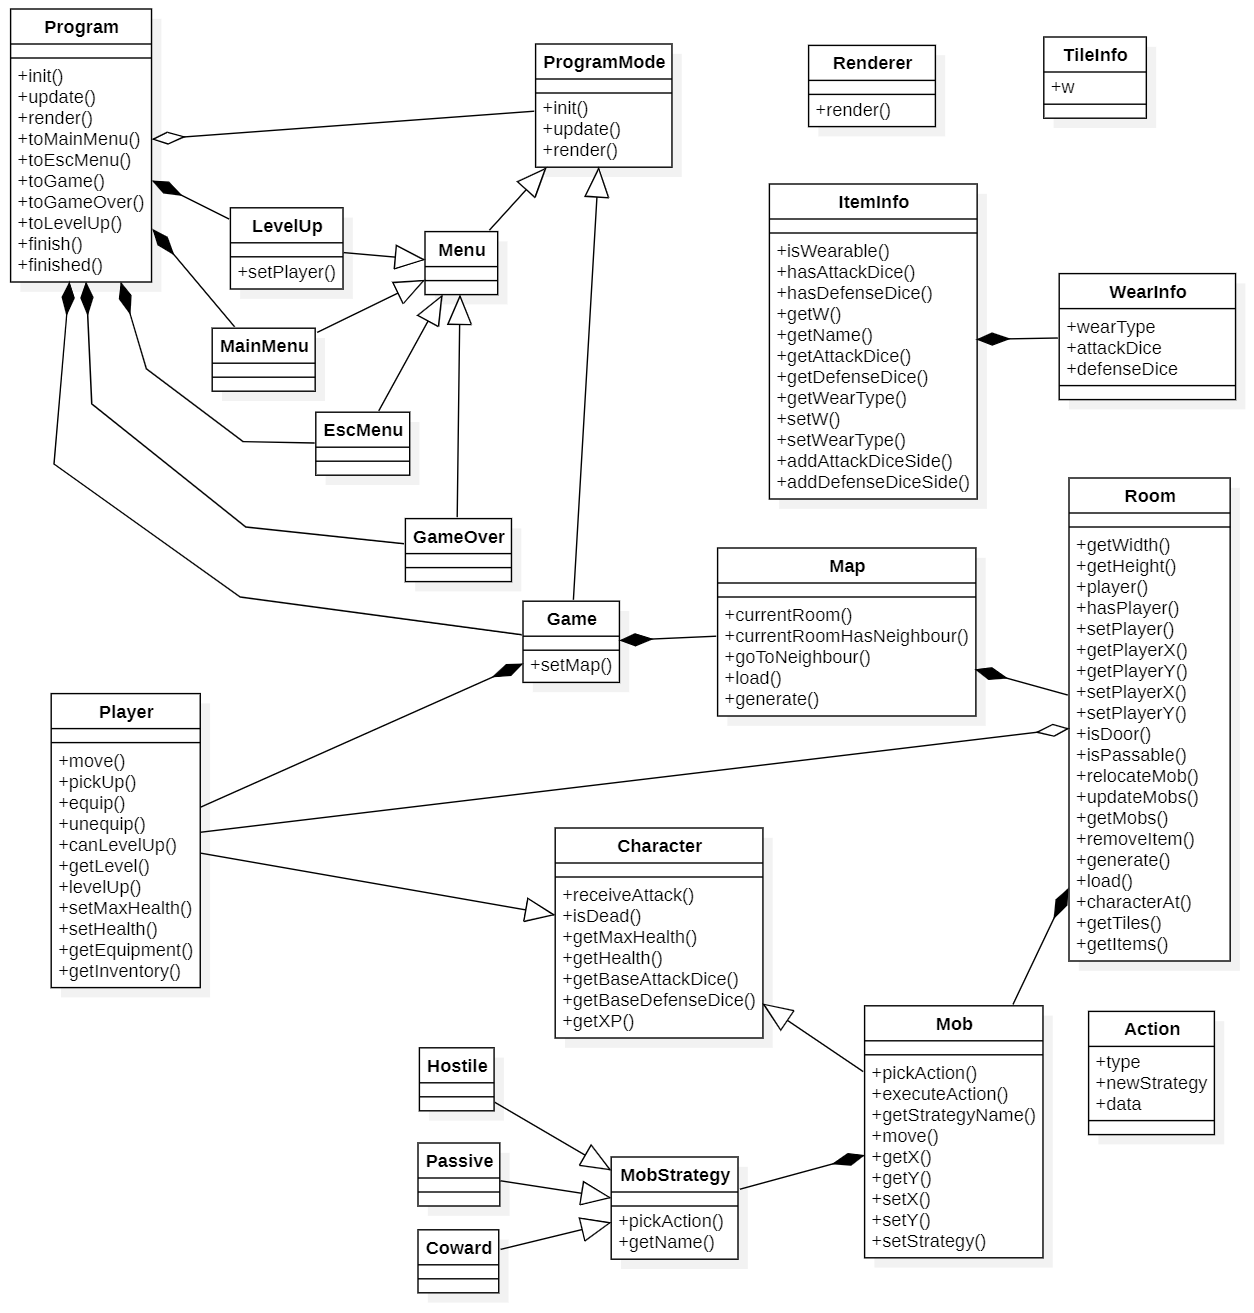
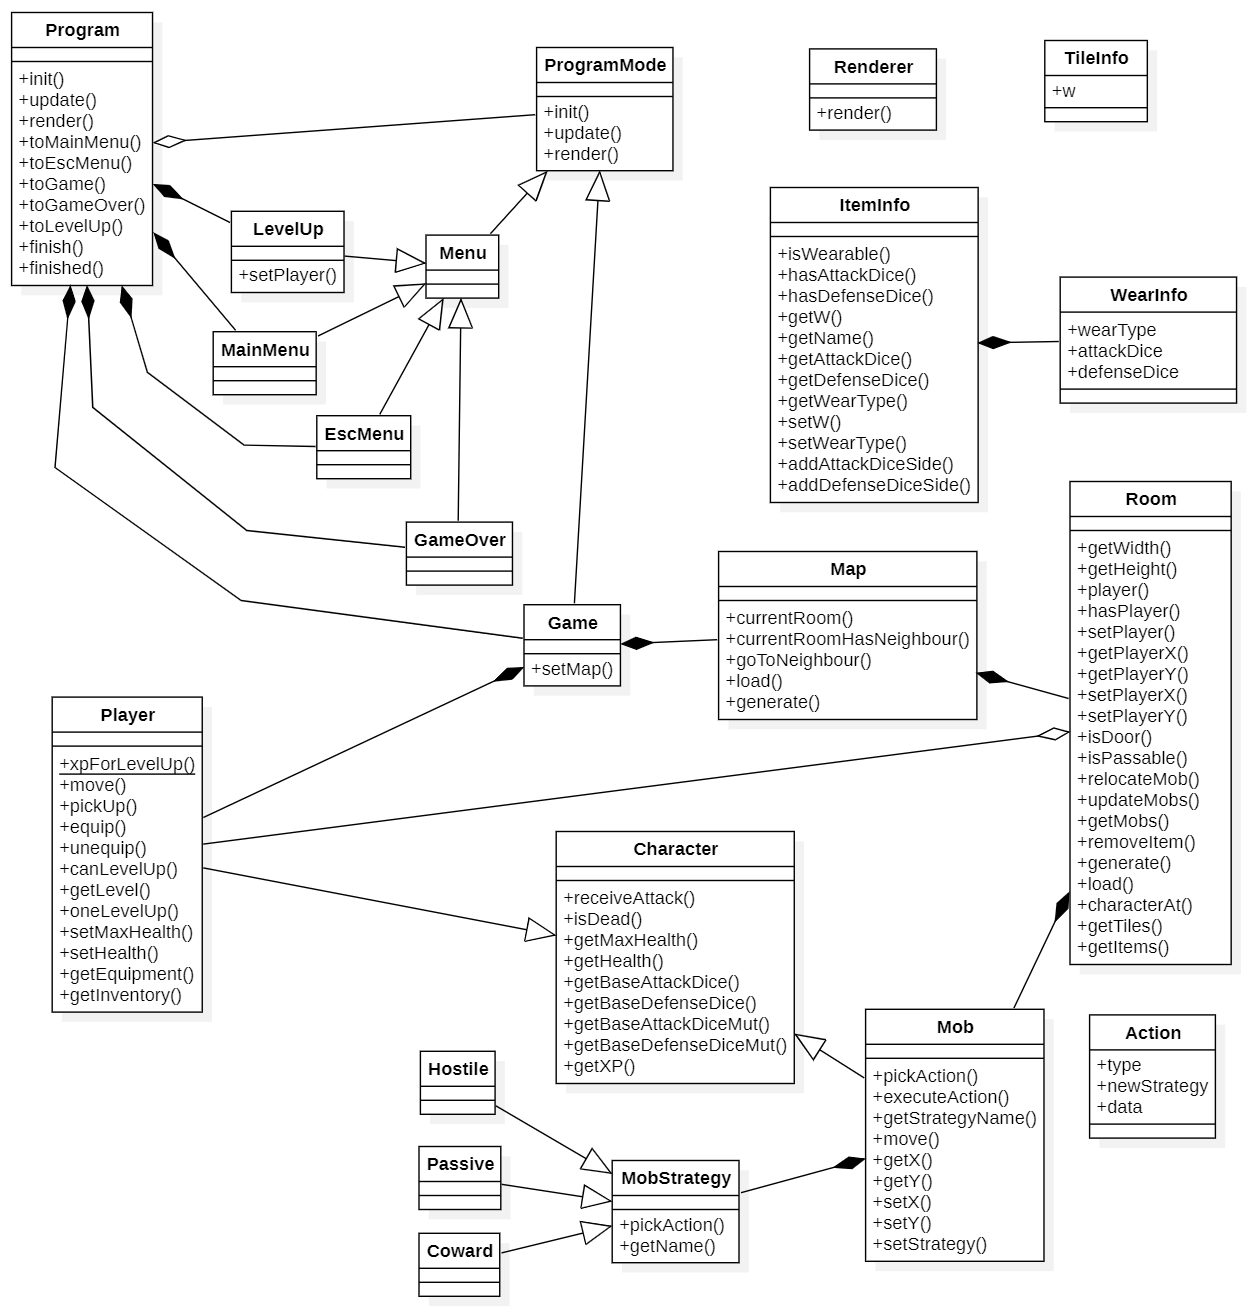
show xp and level in HUD

diff --git a/src/game/program_mode/level_up.cpp b/src/game/program_mode/level_up.cpp
@@ -1,9 +1,13 @@
 #include <game/program_mode/level_up.hpp>
 #include <game/character/player.hpp>
 #include <game/program.hpp>
+#include <utils/random.hpp>
 
 #include <cassert>
+#include <cstddef>
 #include <sstream>
+#include <random>
+#include <string>
 
 const std::pair<
     const std::vector<std::string>&,
@@ -16,13 +20,31 @@ getLevelRewardOptions(int32_t levelReached) {
     > levelRewardNames_ = {
         { // for reaching level 1
             "Max Health + 1",
+            "Random side of Base Attack Dice + 1",
+            "Random side of Base Defense Dice + 1"
         }
     };
     static const std::vector<
         std::vector<std::function<void(Player&)>>
     > levelRewardActions_ = {
         { // for reaching level 1
-            [](Player& player){ player.setMaxHealth(player.getMaxHealth() + 1); }
+            [](Player& player){ player.setMaxHealth(player.getMaxHealth() + 1); },
+            [](Player& player){
+                auto& dice = player.getBaseAttackDiceMut();
+                assert(!dice.empty());
+                std::uniform_int_distribution<size_t> dis(0, dice.size() - 1);
+                size_t i = dis(getRNG());
+                ++dice[i].first;
+                dice[i].second = std::to_string(dice[i].first);
+            },
+            [](Player& player){
+                auto& dice = player.getBaseDefenseDiceMut();
+                assert(!dice.empty());
+                std::uniform_int_distribution<size_t> dis(0, dice.size() - 1);
+                size_t i = dis(getRNG());
+                ++dice[i].first;
+                dice[i].second = std::to_string(dice[i].first);
+            }
         }
     };
     assert(levelRewardNames_.size() == levelRewardActions_.size());
@@ -61,7 +83,7 @@ void LevelUp::setPlayer(Player* player) {
             optionActionsBuffer_.push_back(
                 [&](Program& program){
                     assert(player_);
-                    player_->levelUp();
+                    player_->oneLevelUp();
                     action(*player_);
                     player_->setHealth(player_->getMaxHealth());
                     if (player_->canLevelUp()) {

diff --git a/src/platform/renderer.cpp b/src/platform/renderer.cpp
@@ -316,11 +316,22 @@ static ftxui::Element drawHUD(
 
     auto& itemsDict = getItemsDict();
 
-    std::stringstream ss;
-    ss << "Health: " << player.getHealth() << " / " << player.getMaxHealth()
-       << " | Base Attack Dice:";
+    std::stringstream healthSS;
+    healthSS << "Health: "
+             << player.getHealth()
+             << " / "
+             << player.getMaxHealth();
+
+    std::stringstream attackDiceSS;
+    attackDiceSS << "Base Attack Dice: ";
     for (const auto& v : player.getBaseAttackDice()) {
-        ss << " " << v.second;
+        attackDiceSS << " " << v.second;
+    }
+
+    std::stringstream defenseDiceSS;
+    defenseDiceSS << "Base Defense Dice:";
+    for (const auto& v : player.getBaseDefenseDice()) {
+        defenseDiceSS << " " << v.second;
     }
 
     auto getItemStr = [&](int32_t itemID) {
@@ -356,8 +367,22 @@ static ftxui::Element drawHUD(
         { FEET, "Feet" }
     };
 
+    std::stringstream xpSS;
+    xpSS << "XP: "
+         << player.getXP()
+         << " / "
+         << Player::xpForLevelUp(player.getLevel())
+         << " | Level: "
+         << player.getLevel();
+
     auto vb = vbox({
-        text(ss.str()),
+        hbox({
+            text(healthSS.str()),
+            separator(),
+            vbox({text(attackDiceSS.str()), text(defenseDiceSS.str())})
+        }),
+        separator(),
+        text(xpSS.str()),
         separator(),
         text("On ground: " + onGroundStr),
         separator(),

diff --git a/src/game/character/character.hpp b/src/game/character/character.hpp
@@ -16,12 +16,14 @@ public:
     int32_t getHealth() const;
     const Dice<int32_t>& getBaseAttackDice() const;
     const Dice<int32_t>& getBaseDefenseDice() const;
-    int32_t getXP() const;
+    Dice<int32_t>& getBaseAttackDiceMut();
+    Dice<int32_t>& getBaseDefenseDiceMut();
+    uint64_t getXP() const;
 
 protected:
     int32_t maxHealth_ = 10;
     int32_t health_ = 10;
-    int32_t xp_ = 0;
+    uint64_t xp_ = 0;
     Dice<int32_t> baseAttackDice_ = {
         { 1, "1" },
         { 1, "1" },

diff --git a/src/game/character/player.cpp b/src/game/character/player.cpp
@@ -137,16 +137,20 @@ Player::getInventory() const {
 }
 
 bool Player::canLevelUp() const {
-    return xp_ >= 1 << level_;
+    return xp_ >= xpForLevelUp(level_);
 }
 
 int32_t Player::getLevel() const {
     return level_;
 }
 
-void Player::levelUp() {
+uint64_t Player::xpForLevelUp(int32_t currentLevel) {
+    return 1ull << currentLevel;
+}
+
+void Player::oneLevelUp() {
     assert(canLevelUp());
-    xp_ -= 1 << level_;
+    xp_ -= xpForLevelUp(level_);
     ++level_;
 }
 

diff --git a/src/game/character/character.cpp b/src/game/character/character.cpp
@@ -20,6 +20,14 @@ const Dice<int32_t>& Character::getBaseDefenseDice() const {
     return baseDefenseDice_;
 }
 
-int32_t Character::getXP() const {
+Dice<int32_t>& Character::getBaseAttackDiceMut() {
+    return baseAttackDice_;
+}
+
+Dice<int32_t>& Character::getBaseDefenseDiceMut() {
+    return baseDefenseDice_;
+}
+
+uint64_t Character::getXP() const {
     return xp_;
 }

diff --git a/src/game/character/player.hpp b/src/game/character/player.hpp
@@ -26,7 +26,8 @@ public:
     bool unequip(EquipmentSlot eqSlot);
     bool canLevelUp() const;
     int32_t getLevel() const;
-    void levelUp();
+    void oneLevelUp();
+    static uint64_t xpForLevelUp(int32_t currentLevel);
 
     void setMaxHealth(int32_t maxHealth);
 
